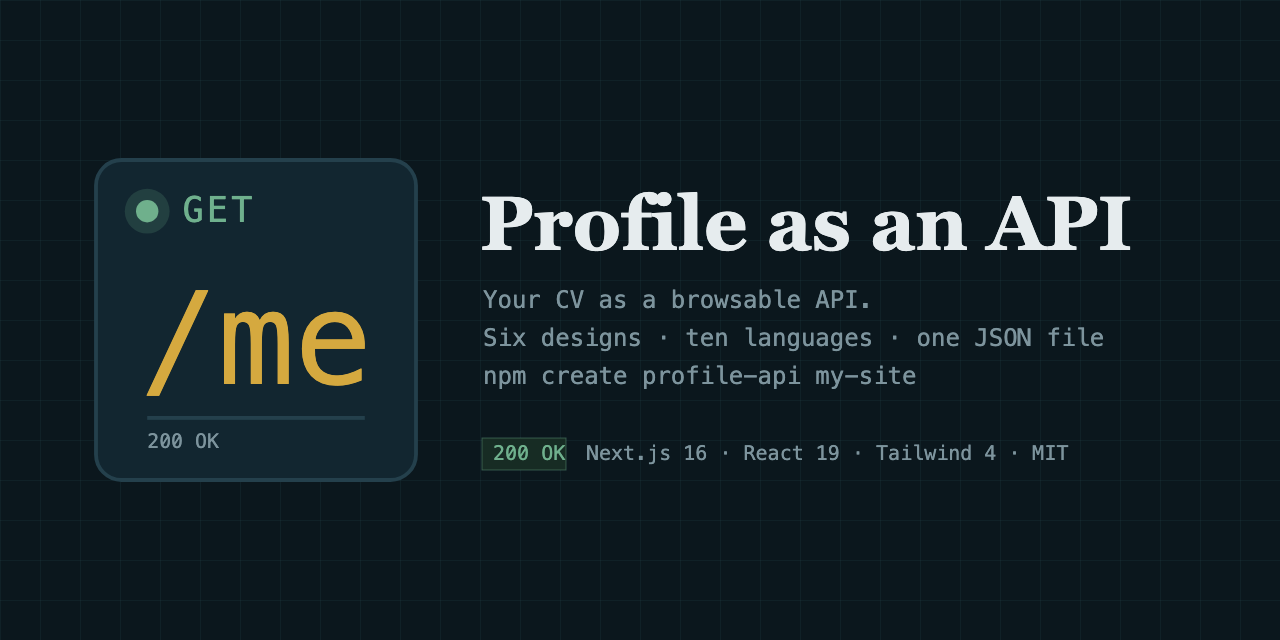
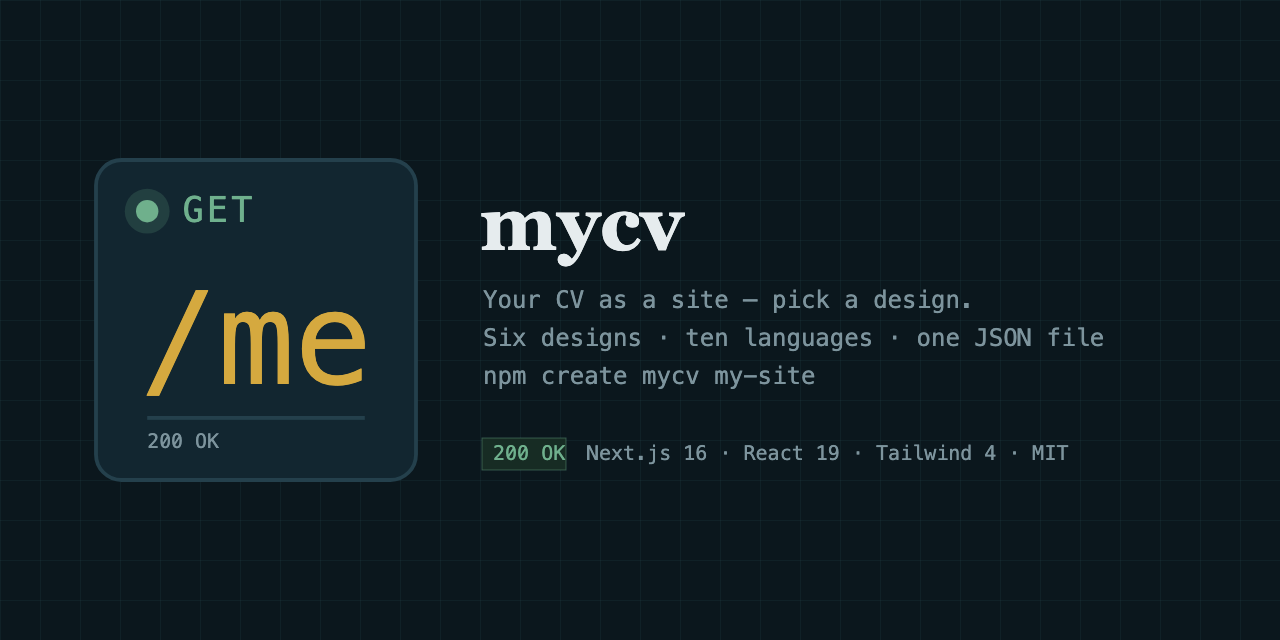
Rename to mycv: npm create mycv, npm README generated from the repository README

Changed region(s): [[0.375, 0.2812, 0.875, 0.4375], [0.5312, 0.4375, 0.75, 0.5], [0.5, 0.5625, 0.7188, 0.625]]

diff --git a/packages/create-mycv/README.md b/packages/create-mycv/README.md
@@ -1,5 +1,5 @@
 <p align="center">
-  <img src=".github/brand/banner.svg" alt="mycv" width="100%">
+  <img src="https://raw.githubusercontent.com/SoyHub/SoyHub.github.io/main/.github/brand/banner.svg" alt="mycv" width="100%">
 </p>
 
 <p align="center">
@@ -22,13 +22,13 @@
   <a href="#the-stack-explained">Stack</a>
 </p>
 
-|             `console` — API explorer              |                  `terminal` — CLI                   |
-| :-----------------------------------------------: | :-------------------------------------------------: |
-| ![console](.github/brand/screenshots/console.png) | ![terminal](.github/brand/screenshots/terminal.png) |
-|           **`openapi`** — Swagger spec            |               **`git`** — repository                |
-| ![openapi](.github/brand/screenshots/openapi.png) |      ![git](.github/brand/screenshots/git.png)      |
-|            **`status`** — status page             |             **`rpg`** — character sheet             |
-|  ![status](.github/brand/screenshots/status.png)  |      ![rpg](.github/brand/screenshots/rpg.png)      |
+|                                             `console` — API explorer                                             |                                                  `terminal` — CLI                                                  |
+| :--------------------------------------------------------------------------------------------------------------: | :----------------------------------------------------------------------------------------------------------------: |
+| ![console](https://raw.githubusercontent.com/SoyHub/SoyHub.github.io/main/.github/brand/screenshots/console.png) | ![terminal](https://raw.githubusercontent.com/SoyHub/SoyHub.github.io/main/.github/brand/screenshots/terminal.png) |
+|                                           **`openapi`** — Swagger spec                                           |                                               **`git`** — repository                                               |
+| ![openapi](https://raw.githubusercontent.com/SoyHub/SoyHub.github.io/main/.github/brand/screenshots/openapi.png) |      ![git](https://raw.githubusercontent.com/SoyHub/SoyHub.github.io/main/.github/brand/screenshots/git.png)      |
+|                                            **`status`** — status page                                            |                                            **`rpg`** — character sheet                                             |
+|  ![status](https://raw.githubusercontent.com/SoyHub/SoyHub.github.io/main/.github/brand/screenshots/status.png)  |      ![rpg](https://raw.githubusercontent.com/SoyHub/SoyHub.github.io/main/.github/brand/screenshots/rpg.png)      |
 
 ## Why
 
@@ -60,6 +60,21 @@ pnpm dev
 pnpm test           # guards: valid JSON, no placeholders, no phone numbers, no denylisted names
 pnpm build          # static export in out/ — also regenerates the PDFs and the favicon
 ```
+
+## Scaffolder options
+
+```
+npm create mycv [dir] -- [--theme console|terminal|openapi|git|status|rpg] [--lang en] [--from <url|dir>]
+```
+
+| Flag      | Default                      | What it does                                                |
+| --------- | ---------------------------- | ----------------------------------------------------------- |
+| `--theme` | `console`                    | The design to start with (`"theme"` in `content/site.json`) |
+| `--lang`  | `en`                         | The single language kept; add more later                    |
+| `--from`  | the GitHub tarball of `main` | A URL to a `.tar.gz`, or a local checkout for development   |
+
+Requires Node 20+ and `tar` on the PATH. The package has no dependencies; the template is fetched
+from the repository at run time, so it is always the current version.
 
 ## Deploy to GitHub Pages
 
@@ -242,10 +257,10 @@ samples/            the fictional persona a scaffolded project starts with
 
 ## Contributing
 
-See [CONTRIBUTING.md](CONTRIBUTING.md): the checks, how to add a theme or a language, and how the
+See [CONTRIBUTING.md](https://github.com/SoyHub/SoyHub.github.io/blob/main/CONTRIBUTING.md): the checks, how to add a theme or a language, and how the
 scaffolder is published.
 
 ## License
 
-[MIT](LICENSE). The profile content and photo describe a real person and are not part of the
+[MIT](https://github.com/SoyHub/SoyHub.github.io/blob/main/LICENSE). The profile content and photo describe a real person and are not part of the
 licence — replace them with your own.

diff --git a/CONTRIBUTING.md b/CONTRIBUTING.md
@@ -11,7 +11,7 @@ pnpm lint && pnpm typecheck && pnpm test
 pnpm build            # static export in out/, plus PDFs and favicon
 ```
 
-CI runs the same, then scaffolds a fresh project with `packages/create-profile-api` and builds it.
+CI runs the same, then scaffolds a fresh project with `packages/create-mycv` and builds it.
 
 ## Add a theme
 
@@ -36,11 +36,11 @@ or `messages/` — the tests enforce it. Describe clients by sector.
 
 ## Publishing the scaffolder
 
-`packages/create-profile-api` has no dependencies and fetches the `main` tarball at run time, so
+`packages/create-mycv` has no dependencies and fetches the `main` tarball at run time, so
 it only needs a new version when its own script changes:
 
 ```
-cd packages/create-profile-api
+cd packages/create-mycv
 npm version patch
 npm publish
 ```
